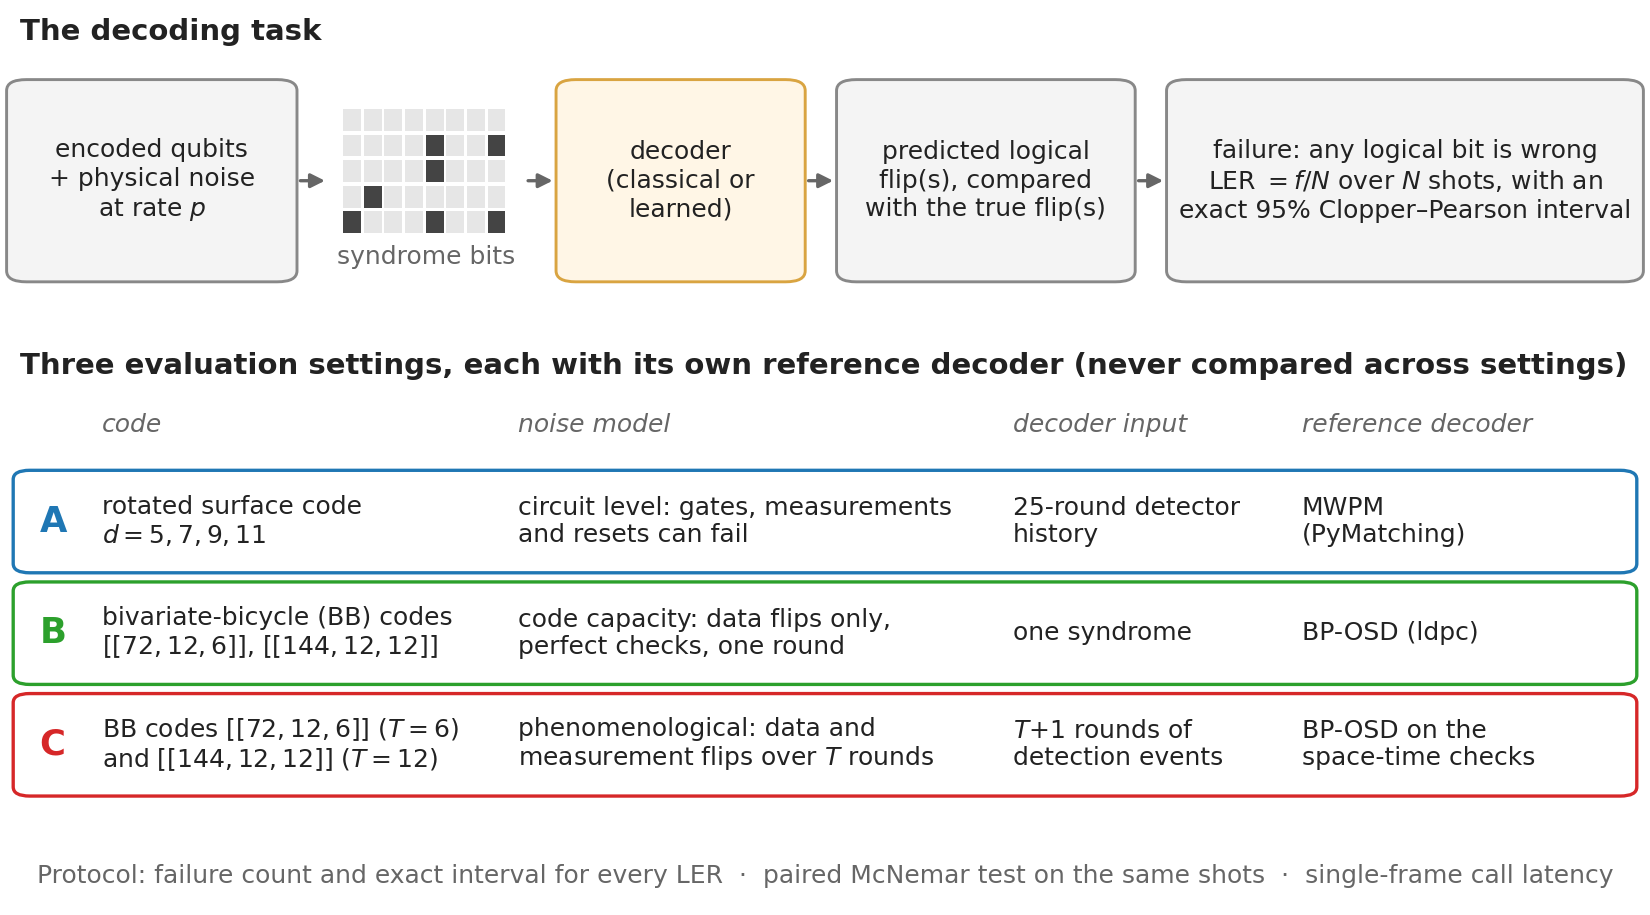
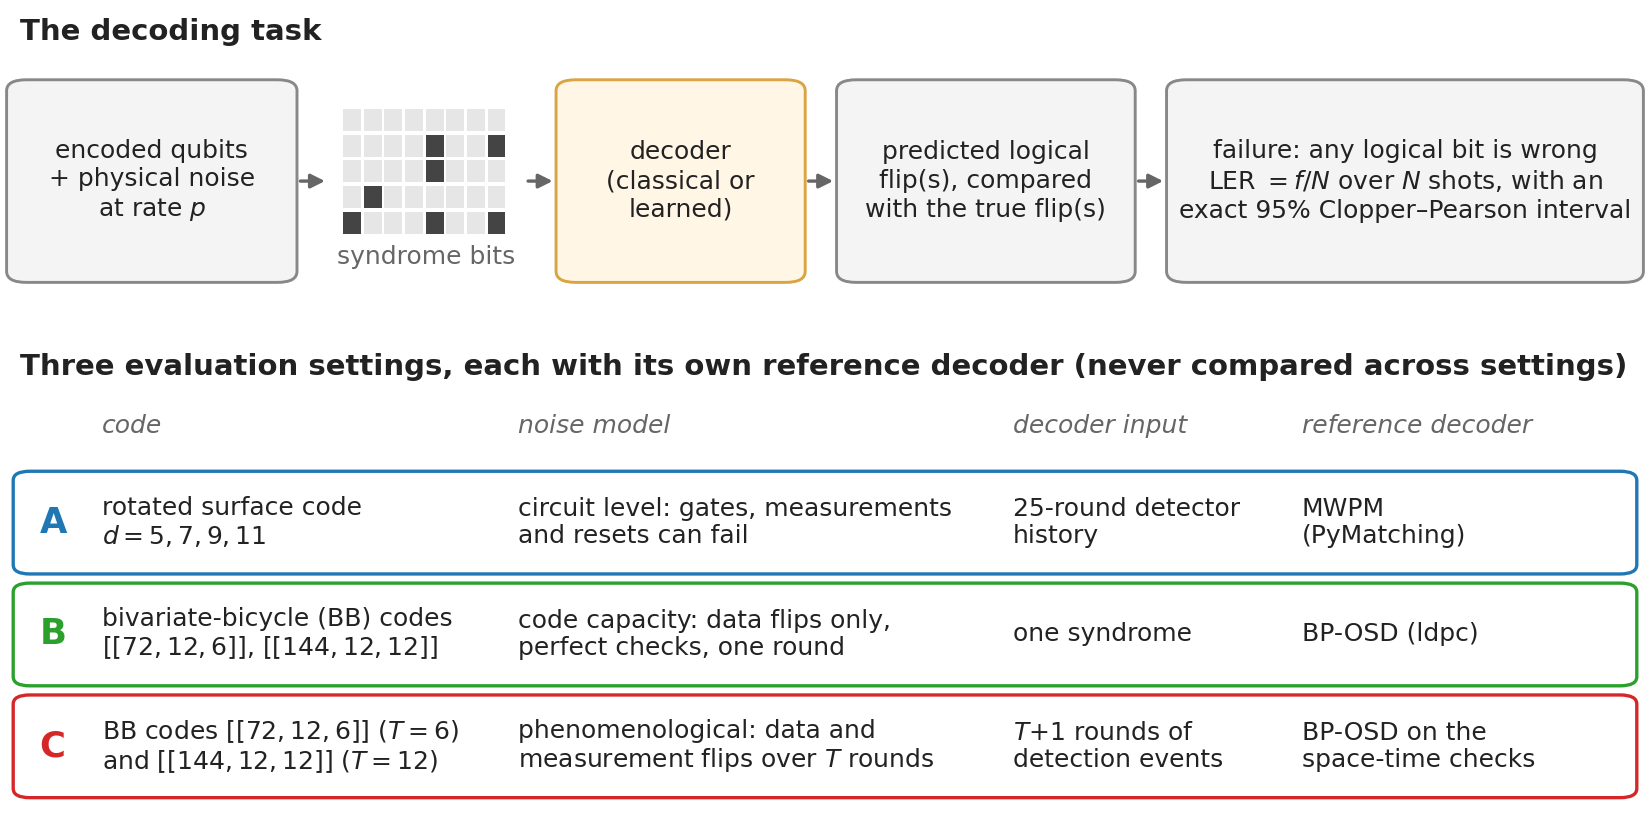
Figure 1: protocol strip removed (stated in the paper's Section 5); canvas trimmed

diff --git a/code/make_fig1.py b/code/make_fig1.py
@@ -27,8 +27,9 @@ def arrow(ax, x0, y0, x1, y1):
 
 
 def build():
-    fig = plt.figure(figsize=(5.5, 3.05))
-    ax = fig.add_axes([0, 0, 1, 1]); ax.set_xlim(0, 1); ax.set_ylim(0, 1); ax.axis("off")
+    # the lowest drawn element is the Arm C row (y >= 0.134); the canvas starts at y = 0.11 (same inches per unit as before)
+    fig = plt.figure(figsize=(5.5, 2.72))
+    ax = fig.add_axes([0, 0, 1, 1]); ax.set_xlim(0, 1); ax.set_ylim(0.11, 1); ax.axis("off")
     FS = 6.0
     # top row: the decoding task as a prediction problem
     ax.text(0.012, 0.965, "The decoding task", fontsize=7.0, weight="bold", color=INK, va="center")
@@ -72,8 +73,6 @@ def build():
         for x, t in zip(cols[1:], (code, noise, inp, dec)):
             ax.text(x + 0.004, yy, t, fontsize=FS, color=INK, va="center", linespacing=1.15)
         yy -= 0.122
-    ax.text(0.5, 0.03, "Protocol: failure count and exact interval for every LER  \u00b7  paired McNemar test on the same shots  "
-            "\u00b7  single-frame call latency", ha="center", fontsize=FS, color=GREY, va="bottom")
     return fig
 
 
